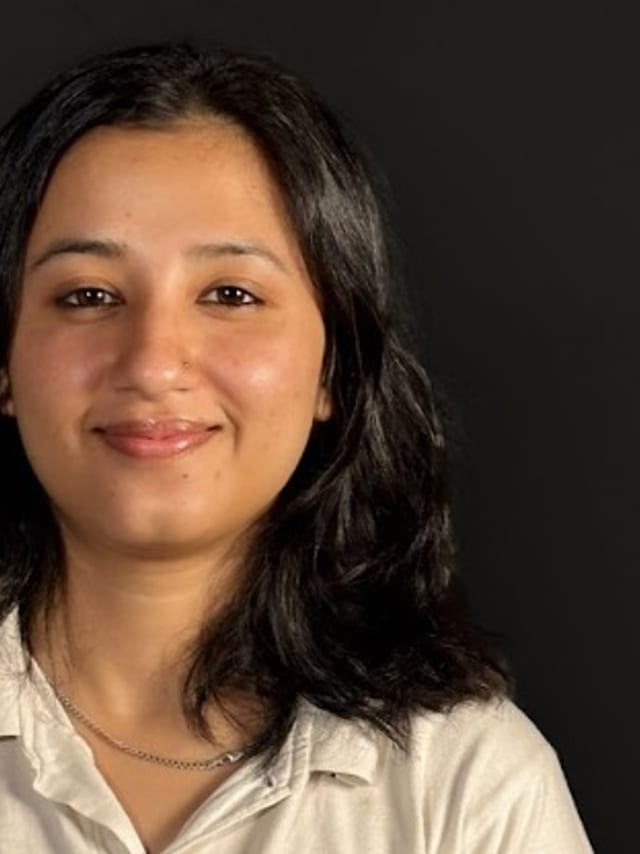
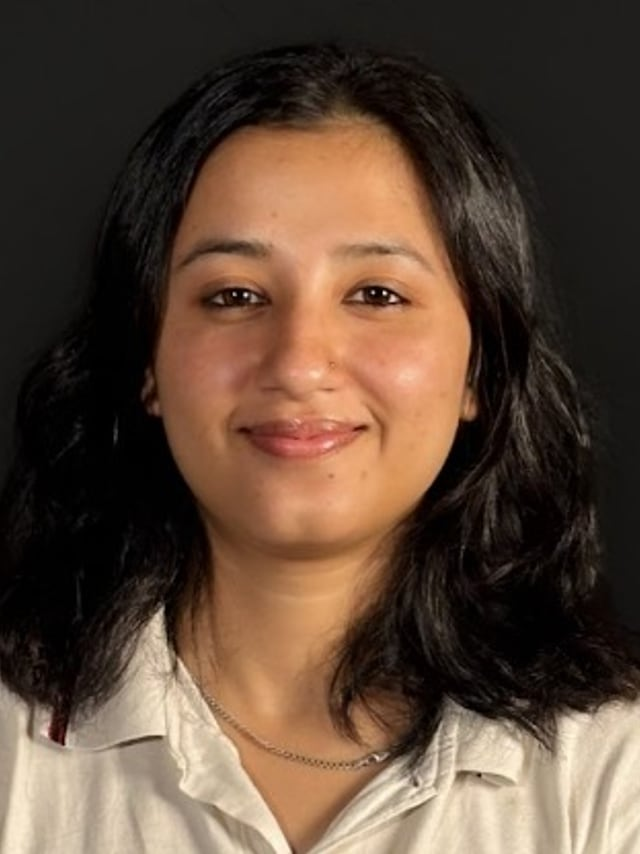
Two portraits reframed, and a receipt that fits on one sheet
Meghna and Vishal both came in landscape and were cropped toward the
brightest region, which pushed each face against an edge. Cropped on the
detail instead, so both sit centred with headroom like the rest.

The receipt carries the logo where it used to spell the name out in type,
and the GST number sits with the receipt number at the top right where an
accountant looks for it.

It is also built to stay on one sheet. The detail moved from a stacked
list into four columns, the type came down a step throughout, and every
block is told not to break across a page. Measured against A4 with the
12mm margins the print rule sets: 601px of 1032, so there is room for a
long tour name and a long transaction id without a second sheet appearing.

diff --git a/src/app/[locale]/account/payments/[id]/receipt/page.tsx b/src/app/[locale]/account/payments/[id]/receipt/page.tsx
@@ -1,3 +1,4 @@
+import Image from "next/image";
 import { notFound } from "next/navigation";
 import { getTranslations } from "next-intl/server";
 
@@ -10,13 +11,16 @@ import { siteName, siteUrl } from "@/lib/seo";
 
 export const dynamic = "force-dynamic";
 
+/** Registered for tax. Printed on every receipt, as it has to be. */
+const GST = "02AAFCO2732H1ZU";
+
 function Cell({ label, value }: { label: string; value: React.ReactNode }) {
   return (
     <div>
-      <dt className="text-brand-800/45 text-[9.5px] font-bold tracking-[0.14em] uppercase">
+      <dt className="text-brand-800/45 text-[8.5px] font-bold tracking-[0.14em] uppercase">
         {label}
       </dt>
-      <dd className="text-brand-900 mt-1 text-[13px] font-semibold">{value}</dd>
+      <dd className="text-brand-900 mt-0.5 text-[12px] font-semibold">{value}</dd>
     </div>
   );
 }
@@ -66,12 +70,20 @@ export default async function ReceiptPage({
         data-receipt
         className="ring-brand-900/10 mx-auto max-w-2xl rounded-[20px] bg-white p-8 ring-1 sm:p-10 print:max-w-none print:rounded-none print:p-0 print:ring-0"
       >
-        <header className="border-brand-900/10 flex flex-wrap items-start justify-between gap-6 border-b pb-6">
+        <header className="border-brand-900/10 flex items-start justify-between gap-6 border-b pb-5">
           <div>
-            <p className="font-display text-brand-900 text-[21px] leading-none font-extrabold tracking-[-0.03em]">
-              {siteName}
-            </p>
-            <p className="text-brand-800/55 mt-2.5 text-[11.5px] leading-[1.6]">
+            {/* The mark rather than the name set in type: it is the same thing
+                the rest of the company signs with. */}
+            <Image
+              src="/logo/logo-horizontal.png"
+              alt={siteName}
+              width={2589}
+              height={546}
+              sizes="200px"
+              className="h-8 w-auto"
+              priority
+            />
+            <p className="text-brand-800/55 mt-2.5 text-[10.5px] leading-[1.55]">
               {contact.addressLines.map((line) => (
                 <span key={line} className="block">
                   {line}
@@ -82,46 +94,49 @@ export default async function ReceiptPage({
           </div>
 
           <div className="text-right">
-            <p className="text-ember-600 text-[10px] font-bold tracking-[0.18em] uppercase">
+            <p className="text-ember-600 text-[9px] font-bold tracking-[0.18em] uppercase">
               {t("receipt.title")}
             </p>
-            <p className="text-brand-900 mt-1.5 font-mono text-[12.5px] font-semibold">{number}</p>
-            <p className="text-brand-800/50 mt-1 text-[11.5px]">{paidOn}</p>
+            <p className="text-brand-900 mt-1 font-mono text-[11.5px] font-semibold">{number}</p>
+            <p className="text-brand-800/50 mt-0.5 text-[10.5px]">{paidOn}</p>
+            <p className="text-brand-800/70 mt-2 text-[10px] font-semibold tracking-[0.04em]">
+              GSTIN {GST}
+            </p>
           </div>
         </header>
 
-        <section className="border-brand-900/10 flex flex-wrap items-end justify-between gap-4 border-b py-6">
+        <section className="border-brand-900/10 flex flex-wrap items-end justify-between gap-4 border-b py-5">
           <div>
-            <p className="text-brand-800/45 text-[9.5px] font-bold tracking-[0.14em] uppercase">
+            <p className="text-brand-800/45 text-[8.5px] font-bold tracking-[0.14em] uppercase">
               {t("receipt.paidBy")}
             </p>
-            <p className="text-brand-900 mt-1.5 text-[15px] font-bold">
+            <p className="text-brand-900 mt-1 text-[14px] font-bold">
               {receipt.lead?.full_name ?? "—"}
             </p>
             {receipt.lead?.email && (
-              <p className="text-brand-800/55 text-[12px]">{receipt.lead.email}</p>
+              <p className="text-brand-800/55 text-[11px]">{receipt.lead.email}</p>
             )}
           </div>
 
           <div className="text-right">
-            <p className="text-brand-800/45 text-[9.5px] font-bold tracking-[0.14em] uppercase">
+            <p className="text-brand-800/45 text-[8.5px] font-bold tracking-[0.14em] uppercase">
               {t("receipt.amountPaid")}
             </p>
-            <p className="font-display text-brand-900 mt-1 text-[30px] leading-none font-extrabold tabular-nums">
+            <p className="font-display text-brand-900 mt-0.5 text-[26px] leading-none font-extrabold tabular-nums">
               {money(receipt.amount, receipt.currency)}
             </p>
           </div>
         </section>
 
-        <section className="border-brand-900/10 border-b py-6">
-          <p className="text-brand-800/45 text-[9.5px] font-bold tracking-[0.14em] uppercase">
+        <section className="border-brand-900/10 border-b py-5">
+          <p className="text-brand-800/45 text-[8.5px] font-bold tracking-[0.14em] uppercase">
             {t("receipt.expedition")}
           </p>
-          <p className="font-display text-brand-900 mt-1.5 text-[17px] font-extrabold tracking-[-0.02em]">
+          <p className="font-display text-brand-900 mt-1 text-[15px] font-extrabold tracking-[-0.02em]">
             {booking.tour.title}
           </p>
 
-          <dl className="mt-5 grid grid-cols-2 gap-x-6 gap-y-4 sm:grid-cols-3">
+          <dl className="mt-4 grid grid-cols-2 gap-x-6 gap-y-3 sm:grid-cols-4">
             <Cell label={t("receipt.reference")} value={booking.reference} />
             {booking.departure && (
               <Cell
@@ -130,41 +145,31 @@ export default async function ReceiptPage({
               />
             )}
             <Cell label={t("receipt.party")} value={party} />
-          </dl>
-        </section>
-
-        <section className="border-brand-900/10 border-b py-6">
-          <p className="text-brand-800/45 text-[9.5px] font-bold tracking-[0.14em] uppercase">
-            {t("receipt.thisPayment")}
-          </p>
-
-          <dl className="mt-4 grid grid-cols-2 gap-x-6 gap-y-4 sm:grid-cols-3">
-            <Cell label={t("receipt.date")} value={paidOn} />
             <Cell label={t("receipt.kind")} value={receipt.kind} />
             {receipt.method && <Cell label={t("receipt.method")} value={receipt.method} />}
             {receipt.providerPaymentId && (
               <Cell
                 label={t("receipt.transaction")}
-                value={<span className="font-mono text-[11.5px]">{receipt.providerPaymentId}</span>}
+                value={<span className="font-mono text-[10.5px]">{receipt.providerPaymentId}</span>}
               />
             )}
           </dl>
         </section>
 
-        <section className="py-6">
-          <p className="text-brand-800/45 text-[9.5px] font-bold tracking-[0.14em] uppercase">
+        <section className="py-5">
+          <p className="text-brand-800/45 text-[8.5px] font-bold tracking-[0.14em] uppercase">
             {t("receipt.balance")}
           </p>
 
-          <dl className="mt-4 space-y-2.5">
-            <div className="flex justify-between gap-4 text-[13px]">
+          <dl className="mt-3 space-y-2">
+            <div className="flex justify-between gap-4 text-[12px]">
               <dt className="text-brand-800/60">{t("receipt.total")}</dt>
               <dd className="text-brand-900 font-semibold tabular-nums">
                 {money(booking.total_amount)}
               </dd>
             </div>
 
-            <div className="flex justify-between gap-4 text-[13px]">
+            <div className="flex justify-between gap-4 text-[12px]">
               <dt className="text-brand-800/60">{t("receipt.paidToDate")}</dt>
               <dd className="text-brand-900 font-semibold tabular-nums">
                 {money(booking.paid_amount)}
@@ -172,7 +177,7 @@ export default async function ReceiptPage({
             </div>
 
             <div
-              className={`border-brand-900/10 flex justify-between gap-4 border-t pt-2.5 text-[14px] font-bold ${
+              className={`border-brand-900/10 flex justify-between gap-4 border-t pt-2 text-[13px] font-bold ${
                 settled ? "text-brand-900" : "text-ember-600"
               }`}
             >
@@ -182,15 +187,17 @@ export default async function ReceiptPage({
           </dl>
 
           {!settled && (
-            <p className="text-brand-800/55 mt-3.5 text-[12px]">
+            <p className="text-brand-800/55 mt-2.5 text-[11px]">
               {t("receipt.dueBy", { date: day(booking.balance_due_on) })}
             </p>
           )}
         </section>
 
-        <footer className="border-brand-900/10 border-t pt-5">
-          <p className="text-brand-800/45 text-[11px] leading-[1.7]">{t("receipt.note")}</p>
-          <p className="text-brand-800/35 mt-2 text-[10.5px]">
+        <footer className="border-brand-900/10 flex items-end justify-between gap-6 border-t pt-4">
+          <p className="text-brand-800/45 max-w-md text-[10px] leading-[1.6]">
+            {t("receipt.note")}
+          </p>
+          <p className="text-brand-800/35 shrink-0 text-[9.5px]">
             {siteUrl.replace(/^https?:\/\//, "")}
           </p>
         </footer>

diff --git a/src/app/globals.css b/src/app/globals.css
@@ -720,7 +720,8 @@ select:focus-visible {
  */
 @media print {
   @page {
-    margin: 14mm;
+    size: A4 portrait;
+    margin: 12mm;
   }
 
   body:has([data-receipt]) * {
@@ -736,5 +737,16 @@ select:focus-visible {
     position: absolute;
     inset-inline: 0;
     top: 0;
+  }
+
+  /* One page, always. A receipt that runs onto a second sheet wastes paper on
+     a footer, and the second sheet is the one that goes missing from a file. */
+  body:has([data-receipt]) [data-receipt] section,
+  body:has([data-receipt]) [data-receipt] header,
+  body:has([data-receipt]) [data-receipt] footer,
+  body:has([data-receipt]) [data-receipt] dl,
+  body:has([data-receipt]) [data-receipt] div {
+    break-inside: avoid;
+    page-break-inside: avoid;
   }
 }
